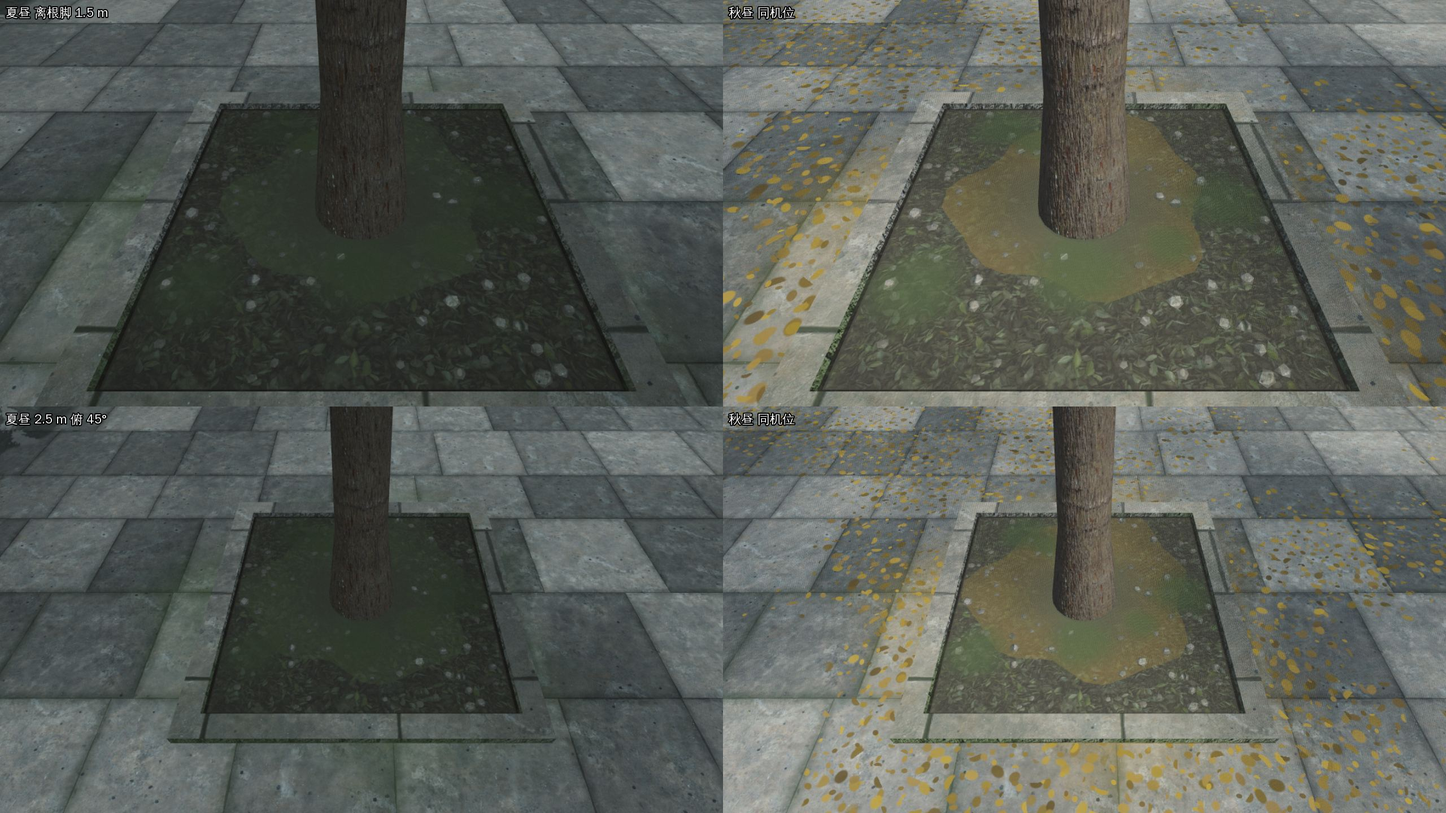
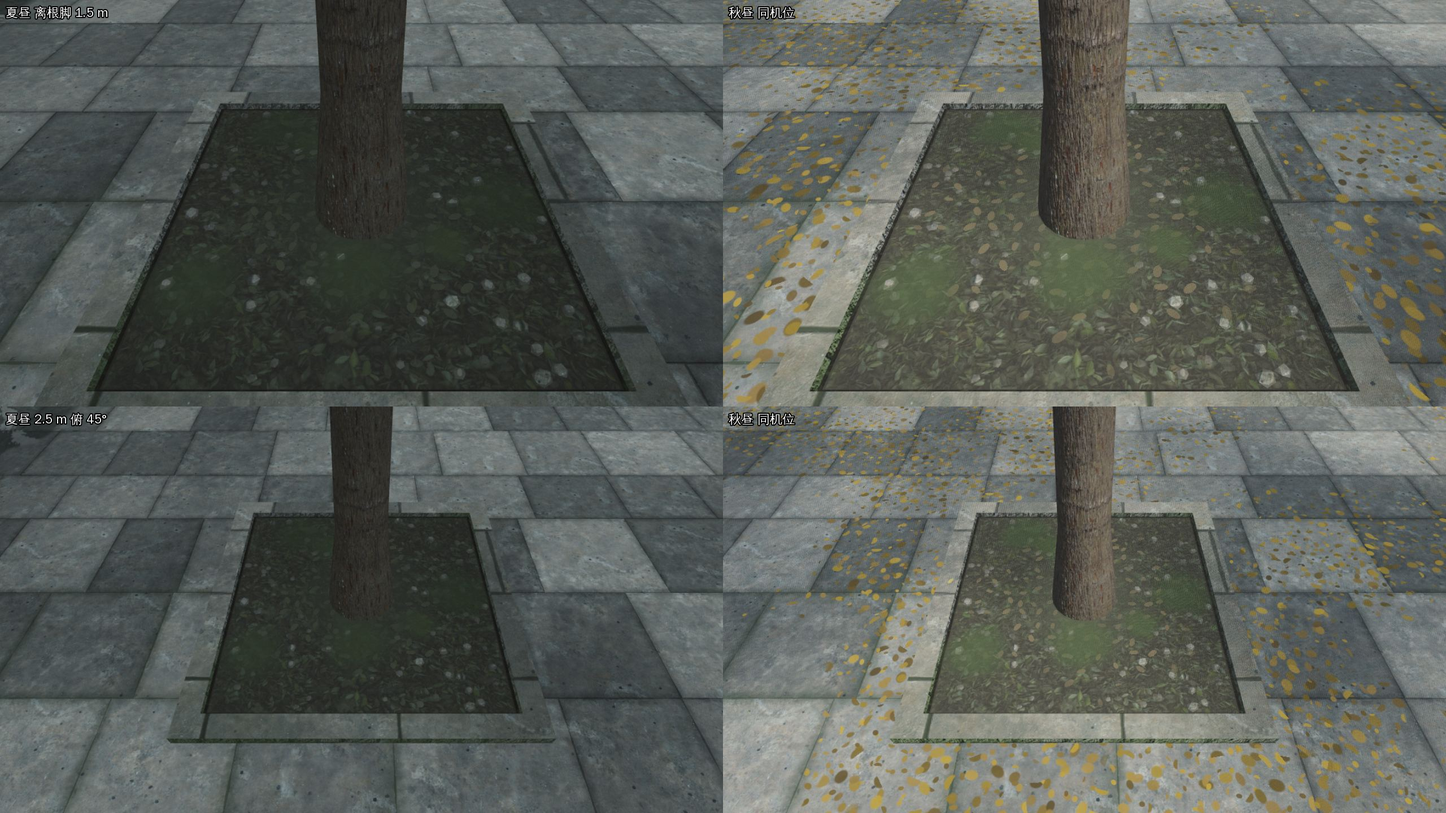
feat(trees): the pit's leaves scatter instead of a patch, a heap and shadow at the trunk's foot (#611)
3D review of cd58512: the orange patch under the tree was about 3 times the
bed's saturation, and the trunk stood in the soil like a post. The bed in the pit
lay under the soil and dust (a hard edge and a screen-door pattern): it is lifted
over them and drawn as scattered leaves, thinner towards the corners, in a
yellow-brown that has lost three fifths of its colour; the trunk's foot gets a
5 cm heap of earth with a dark shade. Autumn at the roots: 0.18, the whole pit 0.15.

Claude-Session: https://claude.ai/code/session_01Cq65vHLAWK18AfnEvh7xfL

diff --git a/app/src/trees.js b/app/src/trees.js
@@ -210,9 +210,9 @@ function bed(x, y, z, r, seed) {
 // The fallen leaves under a ginkgo: a round patch of the season's leaf colour (the material's colour is set by the mood) laid
 // a finger over the paving, thickest at the trunk and fading to nothing at its edge (the alpha in each vertex's colour), so
 // that no hard line shows where it ends.
-function softBed(x, y, z, r, seed) {
-  const R = 36, rings = [[0, 0.5], [0.35, 0.46], [0.65, 0.26], [0.85, 0.09], [1, 0]], pos = [x, y + 0.02, z], col = [1, 1, 1, rings[0][1]], idx = [];
-  for (let i = 1; i < rings.length; i++) for (let k = 0; k < R; k++) { const a = (k / R) * 6.283, rr = r * rings[i][0] * (1 + 0.1 * Math.sin(a * 3 + seed) + 0.07 * Math.sin(a * 7 + seed * 2)); pos.push(x + Math.cos(a) * rr, y + 0.02 - 0.004 * i, z + Math.sin(a) * rr); col.push(1, 1, 1, rings[i][1]); }
+function softBed(x, y, z, r, seed, h = 0.02, step = 0.004) {
+  const R = 36, rings = [[0, 0.5], [0.35, 0.46], [0.65, 0.26], [0.85, 0.09], [1, 0]], pos = [x, y + h, z], col = [1, 1, 1, rings[0][1]], idx = [];
+  for (let i = 1; i < rings.length; i++) for (let k = 0; k < R; k++) { const a = (k / R) * 6.283, rr = r * rings[i][0] * (1 + 0.1 * Math.sin(a * 3 + seed) + 0.07 * Math.sin(a * 7 + seed * 2)); pos.push(x + Math.cos(a) * rr, y + h - step * i, z + Math.sin(a) * rr); col.push(1, 1, 1, rings[i][1]); }
   for (let k = 0; k < R; k++) { const n = (k + 1) % R; idx.push(0, 1 + n, 1 + k); }
   for (let i = 1; i < rings.length - 1; i++) for (let k = 0; k < R; k++) { const n = (k + 1) % R, a = 1 + (i - 1) * R, b = 1 + i * R; idx.push(a + k, a + n, b + k, a + n, b + n, b + k); }
   const g = new THREE.BufferGeometry(); g.setAttribute("position", new THREE.Float32BufferAttribute(pos, 3)); g.setAttribute("color", new THREE.Float32BufferAttribute(col, 4)); g.setIndex(idx); g.computeVertexNormals();
@@ -297,6 +297,24 @@ function pitContact(x, y, z, side) {
   quad(x - h, z - h, x + h, z - h + w); quad(x - h, z + h - w, x + h, z + h); quad(x - h, z - h + w, x - h + w, z + h - w); quad(x + h - w, z - h + w, x + h, z + h - w);
   const g = new THREE.BufferGeometry(); g.setAttribute("position", new THREE.Float32BufferAttribute(pos, 3)); g.setAttribute("color", new THREE.Float32BufferAttribute(col, 4)); g.setIndex(idx); g.computeVertexNormals();
   const N = g.attributes.normal; for (let i = 0; i < N.count; i++) N.setXYZ(i, 0, 1, 0);
+  return g;
+}
+
+// A low heap of earth round the trunk where it goes into the pit's soil (#611, the 3D review: the trunk stood in the flat
+// soil like a post set in, its clean round section meeting the plane): from inside the wood out to a hand's breadth beyond
+// it, `height` thick at the trunk, wandering a little in outline.
+function pitMound(x, y, z, r, seed, height = 0.034, reach = 0.06, shade = false) {
+  const R = 28, base = y + PIT.up - PIT.drop, pos = [], uv = [], idx = [];
+  for (const [rr, h] of [[r * 0.82, height], [r + reach * 0.35, height * 0.7], [r + reach, 0]]) for (let k = 0; k < R; k++) {
+    const a = (k / R) * 6.283, w = 1 + 0.12 * Math.sin(a * 3 + seed) + 0.08 * Math.sin(a * 7 + seed * 2), d = rr === r * 0.82 ? rr : rr * w;
+    pos.push(x + Math.cos(a) * d, base + h * (rr === r + reach ? 0 : w), z + Math.sin(a) * d); uv.push(k / R, h);
+  }
+  for (let i = 0; i < 2; i++) for (let k = 0; k < R; k++) { const n = (k + 1) % R, a = i * R + k, b = i * R + n, c = (i + 1) * R + k, d = (i + 1) * R + n; idx.push(a, c, b, b, c, d); }
+  const g = new THREE.BufferGeometry(); g.setAttribute("position", new THREE.Float32BufferAttribute(pos, 3));
+  if (shade) { const col = []; for (let i = 0; i < pos.length / 3; i++) col.push(0.045, 0.036, 0.027, i < R ? 0.9 : i < 2 * R ? 0.7 : 0); g.setAttribute("color", new THREE.Float32BufferAttribute(col, 4)); }
+  else g.setAttribute("uv", new THREE.Float32BufferAttribute(uv, 2));
+  g.setIndex(idx); g.computeVertexNormals();
+  if (shade) { const N = g.attributes.normal; for (let i = 0; i < N.count; i++) N.setXYZ(i, 0, 1, 0); }
   return g;
 }
 
@@ -514,9 +532,9 @@ export function createTrees(scene, M, spots, opts = {}) {
           else { const e = at(t, 1); if (Math.hypot(e.x - x, e.z - z) >= 0.55 * widthAt(e.y)) clump(kind, e, centre, 0.75 + rnd() * 0.35, 3); }
         }
         const rg = tubes[0].rings, i = Math.max(0, rg.findIndex((r) => r.pos.y > y) - 1), a = rg[i], b = rg[Math.min(i + 1, rg.length - 1)], f = b === a ? 0 : (y - a.pos.y) / (b.pos.y - a.pos.y), flare = a.radius + (b.radius - a.radius) * f;
-        nth++; ginkgoBeds.push(softBed(x, y, z, flare * 3 + 0.9, nth));
-        const side = pitSide(flare); pitStone.push(...pitStones(x, y, z, side)); beds.push(pitSoil(x, y, z, side)); pitCap.push(...pitSnow(x, y, z, side)); pits.push({ at: [x, z], side, flare });
-        moss.push(mossPatch(x, y, z, flare * 1.7 + 0.2, 0.45, nth + 5, MOSS, 0.75, PIT.up - PIT.drop + 0.012), pitContact(x, y, z, side), pitDust(x, y, z, side), ...pitMossPatches(x, y, z, side, flare, nth));   // moss at the roots and in patches, the dark contact line
+        nth++; ginkgoBeds.push(softBed(x, y, z, flare * 2 + 0.55, nth, PIT.up - PIT.drop + 0.012, 0.0004));   // (over the pit's soil and dust: lower, it was hidden by them and ended in a hard line)
+        const side = pitSide(flare); pitStone.push(...pitStones(x, y, z, side)); beds.push(pitSoil(x, y, z, side), pitMound(x, y, z, flare * 1.05, nth, 0.05, 0.085)); pitCap.push(...pitSnow(x, y, z, side)); pits.push({ at: [x, z], side, flare });
+        moss.push(mossPatch(x, y, z, flare * 1.7 + 0.2, 0.45, nth + 5, MOSS, 0.55, PIT.up - PIT.drop + 0.012), pitContact(x, y, z, side), pitDust(x, y, z, side), ...pitMossPatches(x, y, z, side, flare, nth), pitMound(x, y, z, flare * 1.05, nth, 0.05, 0.085, true));   // (the earth heap's dark shading goes last, so that the moss does not cover it)   // moss at the roots and in patches, the dark contact line
         pitStone.push(...pitGravel(x, y, z, side, flare, nth));   // gravel on the soil, drawn with the stones
       }
       clump(kind, V(x, top - 0.2, z), centre, 1.1, 5);
@@ -572,7 +590,7 @@ export function createTrees(scene, M, spots, opts = {}) {
   if (beds.length) { soil = mesh(merge(beds), M.earth); soil.receiveShadow = true; soil.userData.keep = true; soil.name = "tree-beds"; scene.add(soil); }
 
   let gbed = null;
-  if (ginkgoBeds.length) { gbed = new THREE.Mesh(mergeGeometries(ginkgoBeds), new THREE.MeshStandardMaterial({ vertexColors: true, transparent: true, depthWrite: false, roughness: 1, envMapIntensity: 0.1, polygonOffset: true, polygonOffsetFactor: -2, polygonOffsetUnits: -2 })); gbed.receiveShadow = true; gbed.userData.keep = true; gbed.name = "ginkgo-beds"; gbed.renderOrder = 0; scene.add(gbed); }
+  if (ginkgoBeds.length) { gbed = new THREE.Mesh(mergeGeometries(ginkgoBeds), new THREE.MeshStandardMaterial({ vertexColors: true, transparent: true, depthWrite: false, roughness: 1, envMapIntensity: 0.1, polygonOffset: true, polygonOffsetFactor: -2, polygonOffsetUnits: -2 })); gbed.receiveShadow = true; gbed.userData.keep = true; gbed.name = "ginkgo-beds"; gbed.renderOrder = 0; gbed.material.onBeforeCompile = (sh) => { sh.vertexShader = "varying vec3 vBedP;\n" + sh.vertexShader.replace("#include <begin_vertex>", "#include <begin_vertex>\n  vBedP = position;"); sh.fragmentShader = "varying vec3 vBedP;\n" + sh.fragmentShader.replace("#include <color_fragment>", "#include <color_fragment>\n  { vec2 q = vBedP.xz * 9.0, cell = floor(q); float n1 = fract(sin(dot(cell, vec2(12.9898, 78.233))) * 43758.5453), n2 = fract(sin(dot(cell, vec2(39.346, 11.135))) * 24634.6345), n3 = fract(sin(dot(cell, vec2(73.156, 52.235))) * 31415.9265); vec2 f = fract(q) - vec2(0.25 + 0.5 * n1, 0.25 + 0.5 * n2); float an = n3 * 6.2832; f = vec2(cos(an) * f.x + sin(an) * f.y, -sin(an) * f.x + cos(an) * f.y); float leaf = step(length(vec2(f.x, f.y / 0.55)), 0.2 + 0.12 * n3), here = step(fract(n1 * 5.17 + n2 * 3.31), diffuseColor.a * 2.2); diffuseColor.a = leaf * here * clamp(diffuseColor.a * 3.0, 0.0, 0.9); }"); }; gbed.material.customProgramCacheKey = () => "bedgrain"; scene.add(gbed); }
   // The ginkgoes' pits (#611): the edge stones are the court's stone, the soil inside lies a little under their tops. In
   // winter the soil and the moss are put away like the beds, and the paving's one blanket of snow runs to the trunk.
   let pitMesh = null, mossMesh = null, capMesh = null;
@@ -599,7 +617,7 @@ export function createTrees(scene, M, spots, opts = {}) {
       if (mossMesh) mossMesh.visible = !(m.snow > 0.5);
       if (capMesh) capMesh.visible = m.snow > 0.5;
       // the leaves under a ginkgo are the season's own, and are not there when it is bare
-      if (gbed) { const c = COLOURS.ginkgo[m.season]; gbed.visible = !!c && !(m.snow > 0.5); if (c) gbed.material.color.setRGB(c[0] * 0.45, c[1] * 0.45, c[2] * 0.45); }
+      if (gbed) { const c = COLOURS.ginkgo[m.season]; gbed.visible = !!c && !(m.snow > 0.5); if (c) { const lum = 0.3 * c[0] + 0.59 * c[1] + 0.11 * c[2], k = 0.45, mix = 0.62; gbed.material.color.setRGB((c[0] + (lum - c[0]) * mix) * k, (c[1] + (lum - c[1]) * mix) * k * 0.95, (c[2] + (lum - c[2]) * mix) * k * 0.8); } }   // (a yellow-brown that has given up two fifths of its colour: the litter over the pit's soil read 3 times the saturation of the bed on the paving, #611)
       // Bare twigs show only when the leaves are down.
       if (crowns.twig) { crowns.twig.mesh.visible = m.season === "winter"; crowns.twig.mat.color.setRGB(0.2, 0.16, 0.13); }
     },

diff --git a/docs/t00/evidence/611-tree-pits-full/README.md b/docs/t00/evidence/611-tree-pits-full/README.md
@@ -1,3 +1,3 @@
 # #611 银杏的石砌树池：原尺寸（3D 评审 5ab787e 之后的版本）
 
-四张 1280×720 拼成 2560×1440：夏昼离根脚 1.5 米、秋昼同机位、夏昼 2.5 米俯 45° 看池面、秋昼同机位。首院银杏 (9.5, 28)，软件渲染，中档。池里现在是落叶土加碎石加斑块苔，土石交界一道深色线；秋天池内饱和度约 0.20（铺地 0.10–0.14）。
+四张 1280×720 拼成 2560×1440：夏昼离根脚 1.5 米、秋昼同机位、夏昼 2.5 米俯 45° 看池面、秋昼同机位。首院银杏 (9.5, 28)，软件渲染，中档。池里是落叶土加碎石加斑块苔，土石交界一道深色线；树干根脚有一圈 5 厘米高、8.5 厘米宽的土堆和深色的暗影；秋天的落叶是散落的叶片、越往池角越稀；秋天树根处约 0.18、整池约 0.15（铺地 0.10–0.14，屏幕像素平均）。
